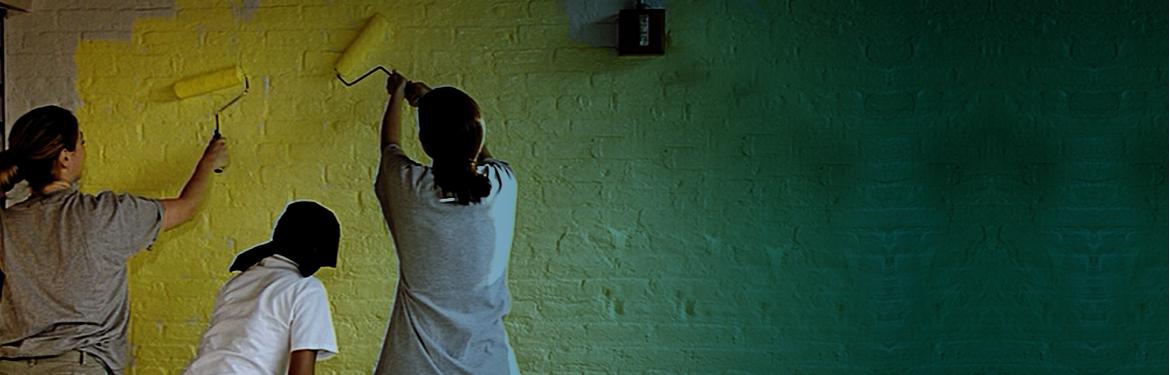
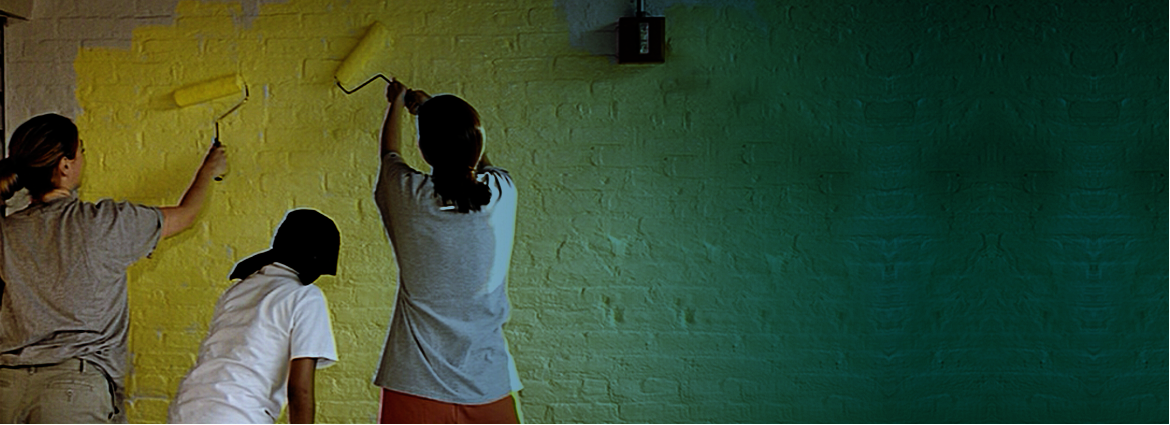
Layout fix for "hero" header image
Inconsistent default paragraph spacing across browsers and the "intro"
div's fixed height was causing inconsistent padding. It looked sloppy
and could conceivably lead to text being cut off in other browsers.
Edited the header's style to use relative height and re-cropped the
background image to buy additional height.

diff --git a/index.html b/index.html
@@ -29,23 +29,29 @@
     	
     	<img src="images/header.png" style="margin:auto;display:block">
 	  	
-	  	<div id="intro" style="background-image:url('images/hero_trimmed.png');width:1120px;height:275px;margin-left:auto;margin-right:auto;padding:25px">
-	  		<div style="float:right">
-	  			<p class="headline" style="color:white;font-size:36px;margin-top:10px">
-	  				WELCOME TO THE ROBIN HOOD
-	  				<br>
-	  				METRICS CALCULATOR!
-	  			</p>
-  				<p class="body" style="max-width:500px;color:white;margin-left:0px">
-	        		At Robin Hood, we have a unique approach to fighting poverty. Using our research-driven metrics, we’re
-	        		able to judge the social impact of a given charity and direct funding where
-	        		it will do the greatest good.
-	        		<br>
-	        		<br>
-		        	This Metrics Calculator will walk you through how we evaluate the impact of a poverty-fighting program.
-	    	    	The resulting benefit/cost ratio is a big part - but only a part - of our decision to fund a nonprofit.
-    			</p>
-	  		</div>
+	  	<div id="intro" style="background-image:url('images/hero_trimmed.png');width:1120px;height:auto;margin-left:auto;margin-right:auto;padding:10px 25px">
+	  		<table border=0 style="width:100%">
+	  			<td style="width:60%">
+	  			</td>
+	  			<td style="width:40%">
+			  		<div>
+			  			<p class="headline" style="color:white;font-size:36px;margin-top:10px">
+			  				WELCOME TO THE ROBIN HOOD
+			  				<br>
+			  				METRICS CALCULATOR!
+			  			</p>
+		  				<p class="body" style="max-width:500px;color:white;margin-left:0px">
+			        		At Robin Hood, we have a unique approach to fighting poverty. Using our research-driven metrics, we’re
+			        		able to judge the social impact of a given charity and direct funding where
+			        		it will do the greatest good.
+			        		<br>
+			        		<br>
+				        	This Metrics Calculator will walk you through how we evaluate the impact of a poverty-fighting program.
+			    	    	The resulting benefit/cost ratio is a big part - but only a part - of our decision to fund a nonprofit.
+		    			</p>
+			  		</div>
+	  			</td>
+	  		</table>
 	  	</div>
 	  	
 	  	<div style="margin-left:auto;margin-right:auto;margin-top:25px;width:1120px;">
